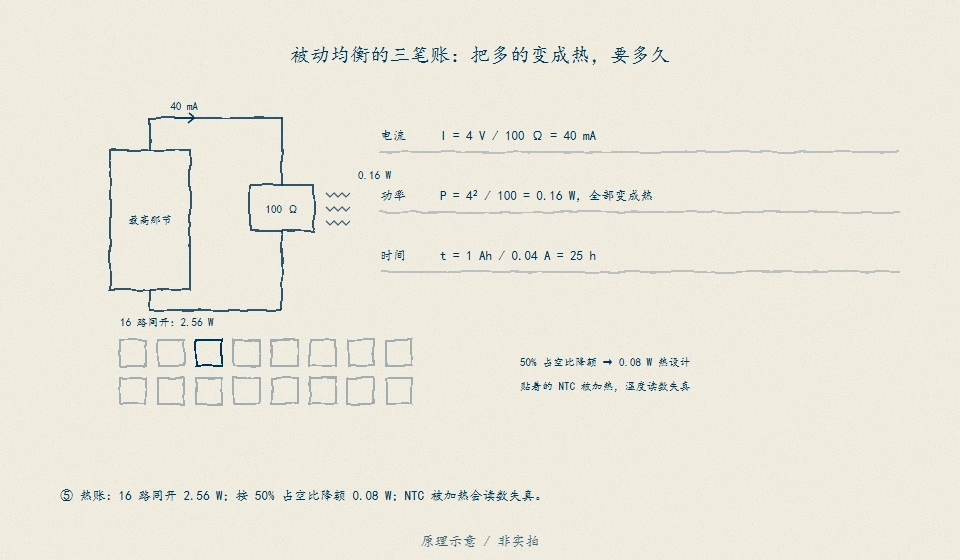
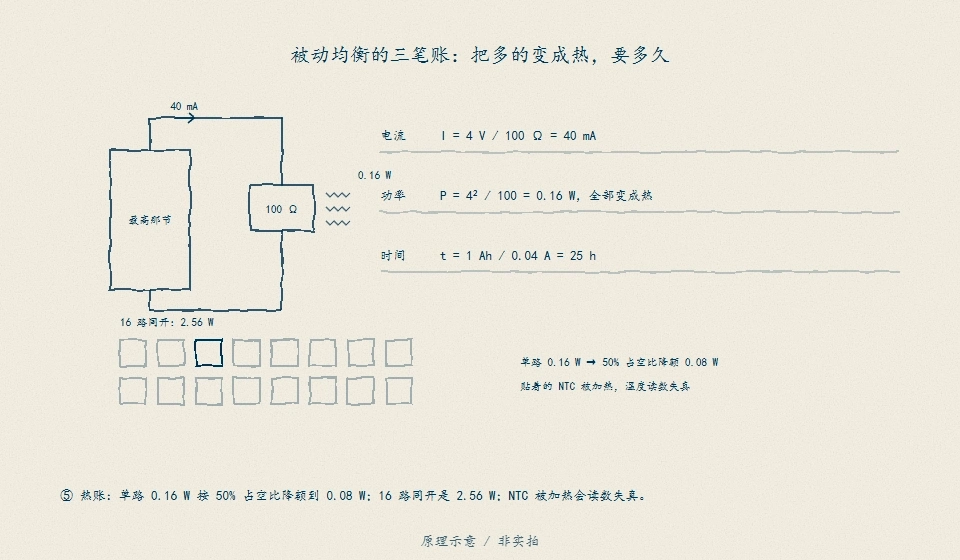
docs(handraw): 补齐两张图的 FACTS 文档，修正降额口径的歧义
prompts/ 此前 26 篇对 28 条 manifest，缺 balance-ledger 与
balance-settle-window——从 #21 起流水线漏了这一步。两篇按既有体例
补齐（front-matter 与 manifest 对齐、观察题、事实表、帧大纲、EN
prompt），每个数字都标出处并复算：

- balance-settle-window：E0=18 mV、τ=45 s、1/2/3τ 残余 6.6/2.4/0.9 mV
  （e⁻ⁿ 复算一致），30→12 mV 低于 15 mV 停止线
- balance-ledger：I=40 mA、P=0.16 W、t=25 h、16 路 2.56 W

写事实表时发现降额口径有歧义：图 9-2 的图说、alt、visuals.json 与
详解索引都写「16 路同开 2.56 W，降额后 0.08 W」，读起来像 0.08 是
2.56 的 50%（那是 1.28 W）。0.08 W 其实是单路 0.16 W 的降额值，书稿
§9.2 正文写明了基准，但图说没有。四处改为「单路按 50% 占空比降额到
0.08 W，16 路同开 2.56 W」，并把帧内 ⑤ 号旁注与右栏标签一起改写，
重出图、重导出、几何门 0 问题。

其余 27 张导出字节不变（sha256 比对），balance-ledger 起始帧与原
print 资产一致，故 print 资产无变化。浏览器实测 960×560、按钮可见、
data-mode static→playing。

Changed region(s): [[0.125, 0.85, 0.6562, 0.9107], [0.5312, 0.6375, 0.75, 0.6679]]

diff --git a/docs/circuits/handraw/prompts/balance-settle-window.md b/docs/circuits/handraw/prompts/balance-settle-window.md
@@ -1,0 +1,54 @@
+---
+search: false
+slug: balance-settle-window
+style: FA-029
+colors: [C-03, C-15]
+frames: 5
+caption: 原理示意 / 非实拍
+bans: [no-people, no-cartoon-IP, no-live-photo-claim]
+kp_id: measurement-budget
+source_svg: null
+---
+
+# 观察题
+
+均衡一关就能采样吗？——不能。关断瞬间读到的还是「带着均衡负载的电压」，偏低量与停止判据同量级；要等几个 τ 才落底，这张图把两笔账画到同一条时间轴上。
+
+# 事实表
+
+出处：书稿 [第 9 章 §9.9](../../../../bms-book/book/09-均衡.md)「关断—采样之间要等多久」。合成电芯取 `bms-book/code/soc/compare.py` 的 R0=20 mΩ、R1=15 mΩ、C1=3000 F，本图只用 R1 与 C1。
+
+| 量 | 值 | 来源 |
+|---|---|---|
+| 均衡电流 | 180 mA | §9.9 被动均衡实测区间 150–200 mA 取中 |
+| 回路电阻 | 100 mΩ | §9.9：电芯内阻 + 线阻 + MOS 导通电阻 |
+| 关断瞬间偏低 E0 | 18 mV | 180 mA × 100 mΩ |
+| 时间常数 τ | 45 s | R1·C1 = 15 mΩ × 3000 F |
+| 1τ = 45 s 残余 | 6.6 mV | 18 × e⁻¹ = 6.622 mV，回弹 63.2% |
+| 2τ = 90 s 残余 | 2.4 mV | 18 × e⁻² = 2.436 mV，回弹 86.5% |
+| 3τ = 135 s 残余 | 0.9 mV | 18 × e⁻³ = 0.896 mV，回弹 95.0% |
+| 落底带 | ≤ 2 mV | 2τ 刚过 2 mV、3τ 已在带内，故结论取 2–3 个 τ |
+| 落底耗时 | 90–135 s ≈ 1.5–2.25 分钟 | 2τ–3τ |
+| 后果算例 | 真实压差 30 mV 读成 12 mV | 30 − 18 = 12，低于 15 mV 停止线 → 均衡提前停 |
+
+纵轴是「读数偏低量 / mV」，0 在顶、20 mV 在底：曲线从 18 mV 向 0 收敛，与「偏低量逐渐消失」方向一致。横轴刻度 0 / 45 s / 90 s / 135 s 即 0–3τ。
+
+# 帧大纲
+
+1. 一个读数定不了结论：坐标轴立起（横轴为均衡关断后的时间，纵轴标 0、10、20 mV），红点落在 t=0、偏低 18 mV 处，旁注 `180 mA × 100 mΩ = 18 mV`。说明均衡一关就采样，读到的是带着均衡负载的电压。
+2. 回弹按 τ 走：画指数收敛曲线，标出 1τ。注明 τ = R1·C1 = 45 s、1τ 只回弹 63.2%、读数仍偏低 6.6 mV——一个 τ 不够。
+3. 落底要看带不看点：加 2τ、3τ 刻度与「偏低 ≤ 2 mV」的落底带。注明 2τ = 90 s 剩 2.4 mV、3τ = 135 s 剩 0.9 mV。
+4. 时序结论：把 2–3 个 τ = 90–135 s ≈ 1.5–2.25 分钟标成区间，写出「关均衡 → 等 2–3 个 τ → 采样 → 判据 → 再开」，不是「关一下就采」。
+5. 后果（唯一红色）：真实压差 30 mV 在关断瞬间读成 12 mV，低于 15 mV 停止线——均衡提前停，18 mV 没磨掉。红色只落在这一个结论上。
+
+# Prompt（EN）
+
+Hand-drawn educational information diagram, FA-029 Chris Ware geometric narrative style: flat geometric panels, precise ruled framing, restrained deadpan composition, paper grain. All linework and labels in Prussian blue C-03; vermilion C-15 is reserved for the single opening measurement marker and the final frame's concluding annotation. Numbers stay as small hand-lettered annotations, all marked 示意 / illustrative. Caption: 原理示意 / 非实拍.
+
+Five frames, one fixed layout: a single axis of reading-error-versus-time occupying the left two thirds, the vertical axis ticked 0, 10 and 20 millivolts with zero at the top so the curve falls toward zero, the horizontal axis ticked at zero and at one, two and three time constants. A right-hand legend column carries short hand-lettered notes. No people, no cartoon mascot, no brand logos, no photorealistic claim:
+
+Frame 1 — the bare axis with a vermilion dot at time zero and an eighteen millivolt reading error, annotated with the balancing current times the loop resistance, stating that sampling the instant balancing stops reads the voltage under balancing load rather than the open-circuit neighbour.
+Frame 2 — the exponential recovery curve is drawn, the first time constant marked, annotated that one time constant recovers only sixty-three percent and the reading is still low by six point six millivolts.
+Frame 3 — the second and third time constants are marked together with a settling band at two millivolts, annotated with the residual error at each.
+Frame 4 — the interval spanning two to three time constants is bracketed and lettered as roughly one and a half to two and a quarter minutes, with the ordering rule that balancing must be switched off, then waited out, then sampled, then judged.
+Frame 5 — a vermilion annotation showing a true cell difference of thirty millivolts being read as twelve at the instant of switch-off, below the fifteen millivolt stop threshold, so balancing stops early and the imbalance is never worked off.

diff --git a/docs/circuits/handraw/prompts/balance-ledger.md b/docs/circuits/handraw/prompts/balance-ledger.md
@@ -1,0 +1,53 @@
+---
+search: false
+slug: balance-ledger
+style: FA-029
+colors: [C-03, C-15]
+frames: 5
+caption: 原理示意 / 非实拍
+bans: [no-people, no-cartoon-IP, no-live-photo-claim]
+kp_id: balancing
+source_svg: null
+---
+
+# 观察题
+
+被动均衡「把多的变成热」，到底要多久？——三笔账互相咬住：电流小、功率小，时间就必然很长。再加一笔热账：单路功率不大，16 路同开却足以把贴着的 NTC 自己加热。
+
+# 事实表
+
+出处：书稿 [第 9 章 §9.2](../../../../bms-book/book/09-均衡.md)「被动均衡：把多的变成热」。100 Ω 放电电阻、单体 4 V 的教学算例，与 §9.2 正文和练习 1 同一组数。
+
+| 量 | 值 | 来源 |
+|---|---|---|
+| 放电电阻 | 100 Ω | §9.2 教学算例 |
+| 单体电压 | 4 V | §9.2 教学算例 |
+| 均衡电流 I | 40 mA | U/R = 4 V / 100 Ω |
+| 单路功率 P | 0.16 W | U²/R = 4² / 100，全部变成热 |
+| 补回 ΔQ = 1 Ah 的时间 t | 25 h | ΔQ/I = 1 Ah / 0.04 A |
+| 单路持续热设计 | 0.08 W | 0.16 W 是额定脉冲能力，按 50% 占空比降额（教学合成值） |
+| 16 路同开总热 | 2.56 W | 16 × 0.16 W（教学合成值） |
+
+**降额口径**：0.08 W 是**单路** 0.16 W 按 50% 占空比降额后的持续值，不是 2.56 W 的降额结果（2.56 W 的一半是 1.28 W，图上与正文都不出现这个数）。两笔账的分母不同——降额按单路算，总热账按 16 路算。图 9-2 的图说与 `docs/circuits/README.md` 索引行都按这个顺序写：先单路降额，再 16 路合计。
+
+2.56 W 足以让铜箔局部升温十几度，贴着电阻的 NTC 被「加热」，温度读数失真——这是本图最后一笔账要指出的后果，也是 §9.9「关断—采样时序」的前因。
+
+# 帧大纲
+
+1. 版式：最高那节挂一只 100 Ω 放电电阻，右边立三行空账（电流 / 功率 / 时间），先只画回路与两个标签。
+2. 第一笔账——电流：`I ≈ U/R = 4 V / 100 Ω = 40 mA`，电流标在回路上。
+3. 第二笔账——功率：`P ≈ U²/R = 0.16 W`，注明这部分全部变成热。
+4. 第三笔账——时间：`t ≈ ΔQ/I = 1 Ah / 0.04 A = 25 h`。一句结论：25 小时才补回 1 Ah，被动均衡只能微调，不能修复。
+5. 热账：左下标 16 路同开 2.56 W；右栏写明单路 0.16 W 按 50% 占空比降额到 0.08 W（分母不同，勿把降额套到 2.56 W 上），再写贴着的 NTC 被加热、温度读数失真。
+
+# Prompt（EN）
+
+Hand-drawn educational information diagram, FA-029 Chris Ware geometric narrative style: flat geometric panels, precise ruled framing, restrained deadpan composition, paper grain. All linework and labels in Prussian blue C-03; vermilion C-15 stays unused in this figure, which carries no single alarming conclusion. Numbers stay as small hand-lettered annotations, all marked 示意 / illustrative. Caption: 原理示意 / 非实拍.
+
+Five frames, one fixed layout: at the left a single cell drawn as a tall rectangle with a bleed resistor wired across it as a small rectangle, at the right a ledger of three stacked rows labelled current, power and time that fill in one per frame. The lower band is reserved for the thermal account. No people, no cartoon mascot, no brand logos, no photorealistic claim:
+
+Frame 1 — the bare circuit and the empty three-row ledger, annotated that the highest cell carries a one hundred ohm bleed resistor.
+Frame 2 — the current row fills in: four volts across one hundred ohms gives forty milliamps, with the current lettered onto the loop.
+Frame 3 — the power row fills in: four volts squared over one hundred ohms gives zero point one six watts, annotated that all of it becomes heat.
+Frame 4 — the time row fills in: one amp hour at forty milliamps takes twenty five hours, with a concluding line that passive balancing can only trim an imbalance, never repair one.
+Frame 5 — the thermal account appears in the lower band: sixteen channels switched on together total two point five six watts at the left, while the right column states that a single channel derates from zero point one six watts to zero point zero eight watts at fifty percent duty, and that the thermistor taped beside the resistor is heated by it so the temperature reading is distorted.

diff --git a/bms-book/book/09-均衡.md b/bms-book/book/09-均衡.md
@@ -46,9 +46,9 @@
 
 
 <figure class="book-motion" data-animation="balance-ledger.webp" data-mode="static">
-<img src="../assets/print/balance-ledger.webp" alt="被动均衡三笔账：40 mA、0.16 W、25 h；16 路同开 2.56 W，降额后 0.08 W。" data-motion-src="../../docs/circuits/handraw/exports/balance-ledger.webp">
+<img src="../assets/print/balance-ledger.webp" alt="被动均衡三笔账：40 mA、0.16 W、25 h；单路按 50% 占空比降额到 0.08 W，16 路同开 2.56 W。" data-motion-src="../../docs/circuits/handraw/exports/balance-ledger.webp">
 <button type="button" data-book-motion v-book-motion aria-pressed="false" hidden>播放动画</button>
-<figcaption>图 9-2　被动均衡三笔账：40 mA、0.16 W、25 h；16 路同开 2.56 W，降额后 0.08 W。</figcaption>
+<figcaption>图 9-2　被动均衡三笔账：40 mA、0.16 W、25 h；单路按 50% 占空比降额到 0.08 W，16 路同开 2.56 W。</figcaption>
 <p class="visual-guide"><strong>先看哪里：</strong>先看电阻上那三笔账怎么互相咬住：电流小、功率小、时间就很长；再看 16 路同开时的热账。</p>
 <p class="visual-question"><strong>看完追问：</strong>如果把均衡电阻从 100 Ω 换成 50 Ω，电流、功率、时间各变成多少？热设计还够吗？</p>
 </figure>

diff --git a/docs/circuits/README.md b/docs/circuits/README.md
@@ -152,7 +152,7 @@ prev:
 | [信号链时间账](handraw/exports/bms-signal-budget.webp) | 8+3+1+0.2 ms。大头在采样 | 理解 | 阶段 1 §1.3 |
 | [扫描时间随节数](assets/topology-scan-time.svg) | 集中式 0.10 ms/节；分布式几乎只加转发 | 理解 | 阶段 1 §1.6 |
 | [最弱节的安时](handraw/exports/weakest-cell-ah.webp) | 对称极差下可用 = 平均 − 极差/2 | 理解 | 阶段 1 §1.2 |
-| [被动均衡三笔账](handraw/exports/balance-ledger.webp) | 40 mA / 0.16 W / 25 h；16 路同开 2.56 W，占空比降额后 0.08 W | 理解 | 阶段 1 §1.8 / 详解④ |
+| [被动均衡三笔账](handraw/exports/balance-ledger.webp) | 40 mA / 0.16 W / 25 h；单路按 50% 占空比降额到 0.08 W，16 路同开 2.56 W | 理解 | 阶段 1 §1.8 / 详解④ |
 | [均衡有多慢](assets/balance-vs-pack-current.svg) | 示意 5 Ah 的 1%：50 mA 要 1 h，200 mA 要 0.25 h。1C 只要 36 s | 理解 | 阶段 1 §1.8 |
 
 ### 阶段 2：功率、保护与预充
